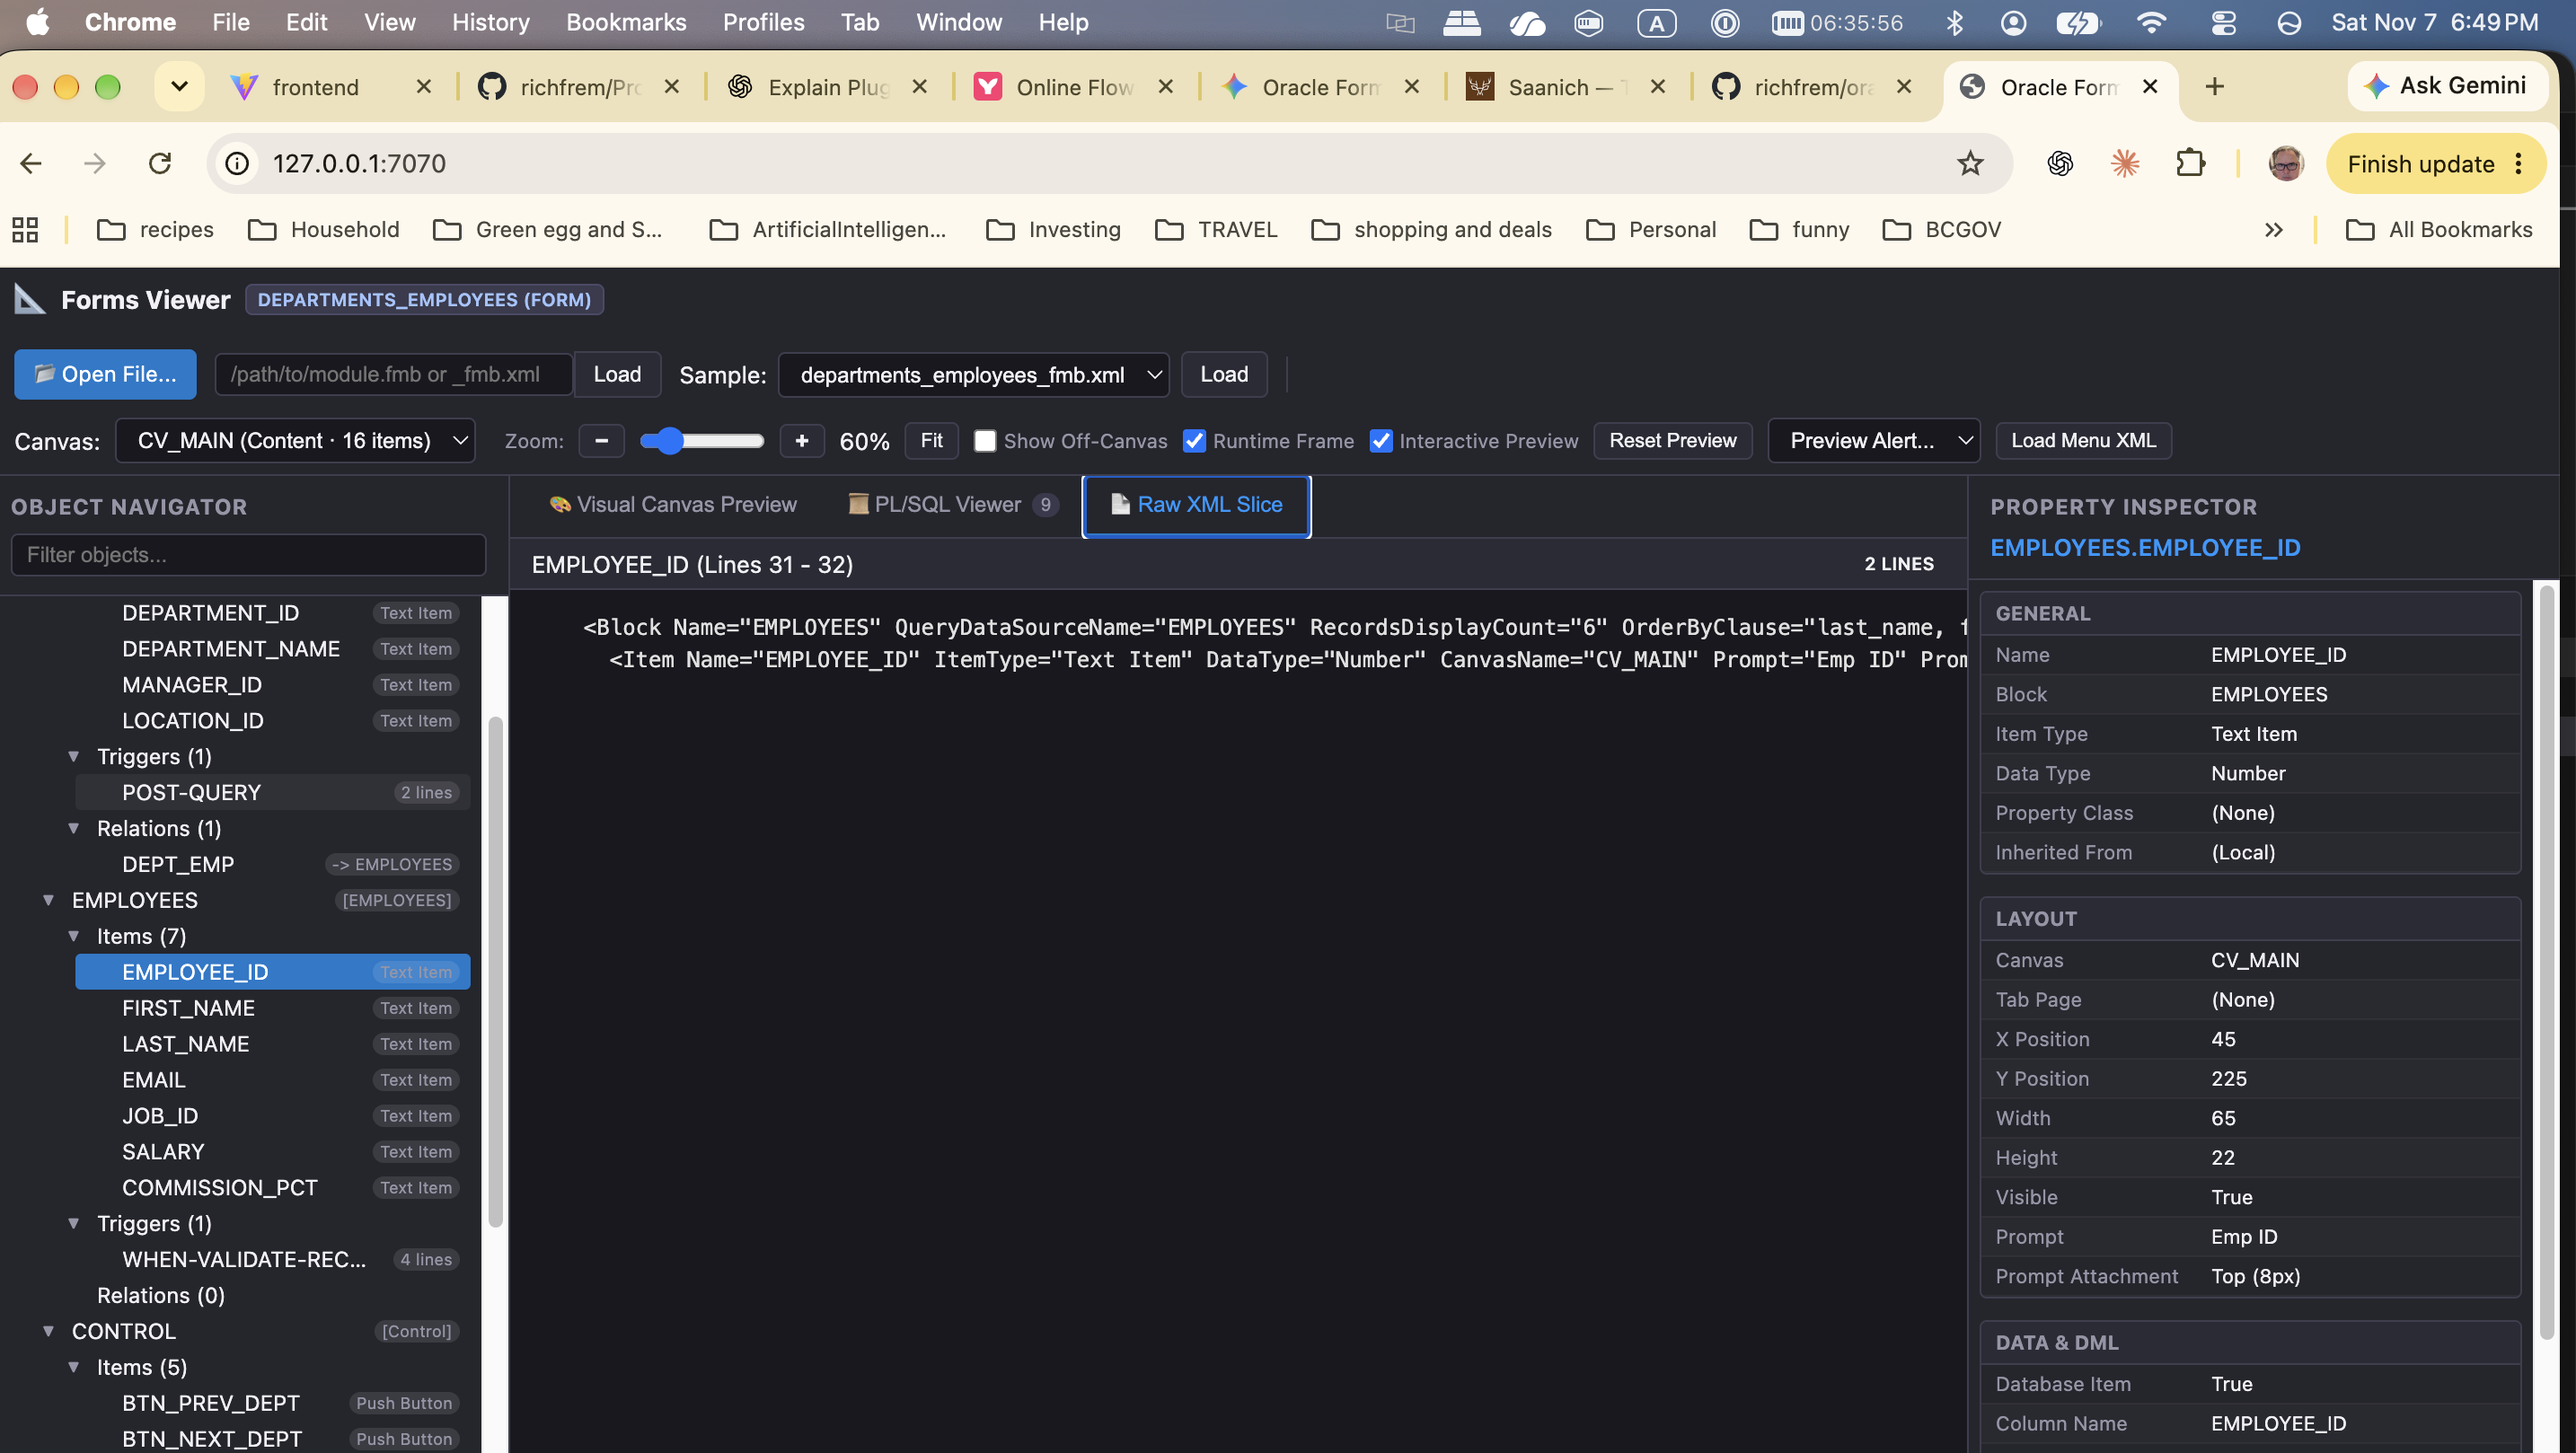
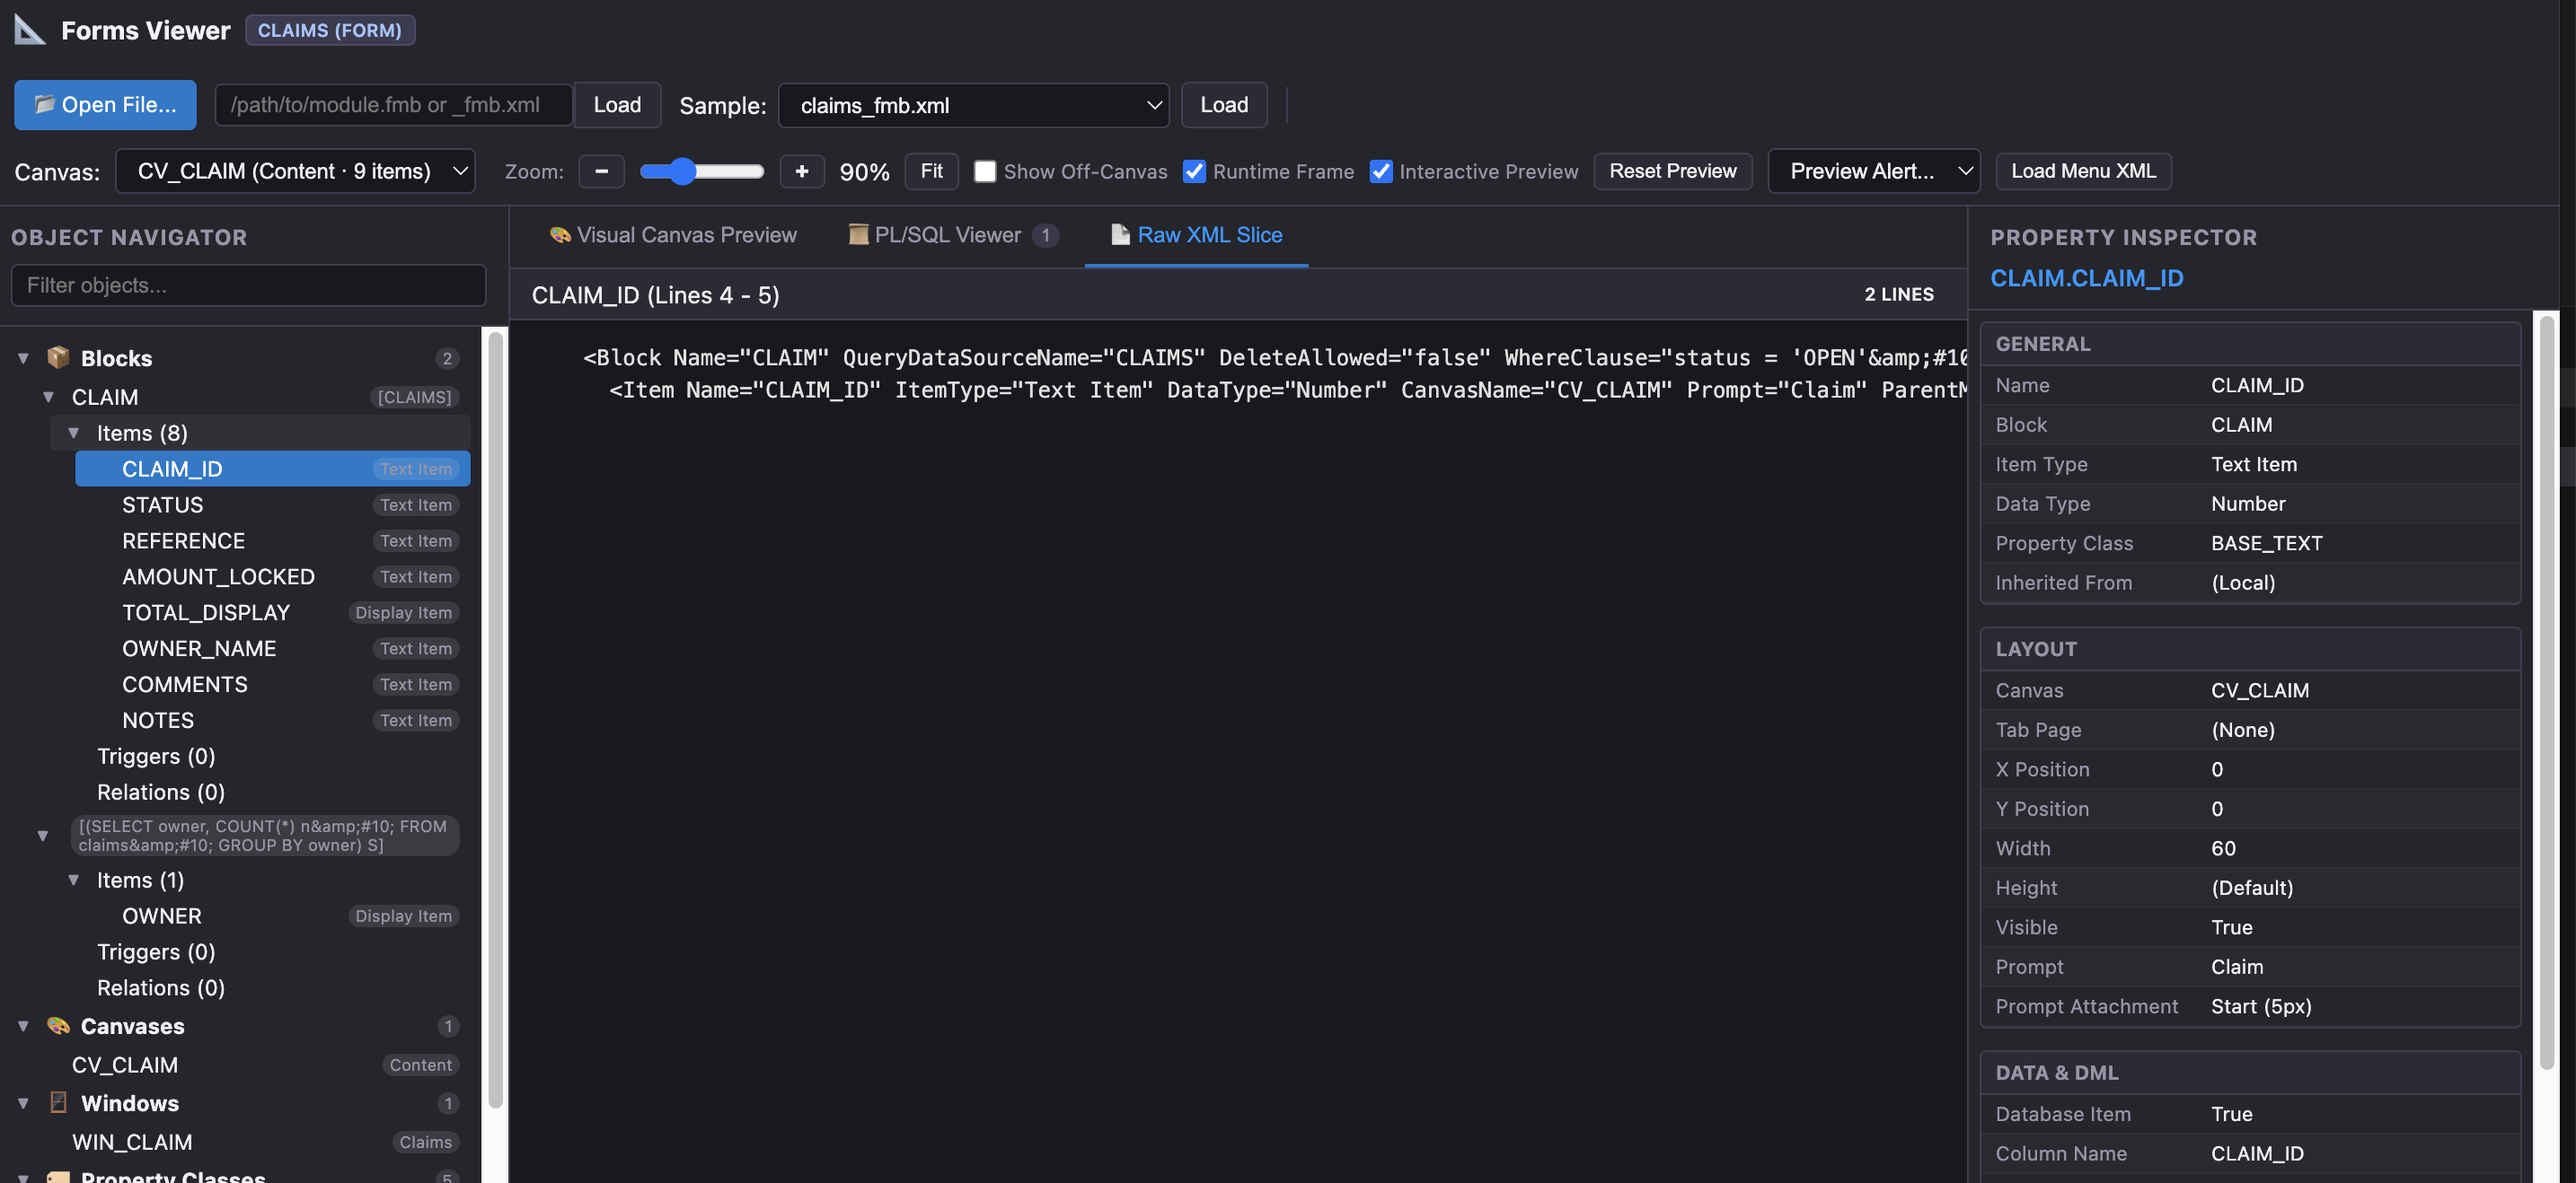
docs: replace screenshots with browser-free captures

diff --git a/README.md b/README.md
@@ -8,20 +8,20 @@ Zero JVM, zero Node.js, and zero Oracle runtime software required for day-to-day
 
 ## Screenshots
 
-### Interactive Master-Detail Preview
+### Interactive Form Preview
 
-Preview a department form and its employee detail grid alongside the object navigator
+Preview a claims form alongside the object navigator
 and property inspector. Interactive Preview supports local edits without database
 connections or PL/SQL execution.
 
-![Interactive master-detail preview with the runtime frame and field properties](docs/screenshots/master-detail-preview.png)
+![Interactive claims form preview with the runtime frame and property inspector](docs/screenshots/claims-preview.png)
 
 ### XML and Property Inspection
 
 Select a form item to inspect its source XML, layout coordinates, data type, and
 database-related properties.
 
-![Raw XML slice and property inspector for the selected employee ID field](docs/screenshots/xml-property-inspector.png)
+![Raw XML slice and property inspector for the selected claim ID field](docs/screenshots/xml-property-inspector.png)
 
 ---
 
